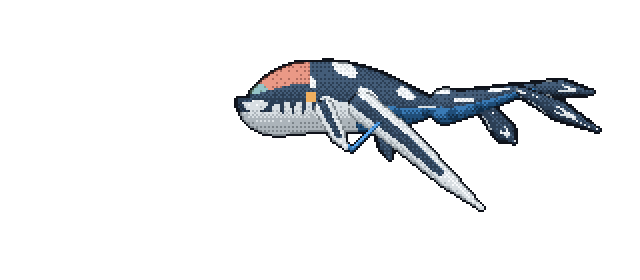
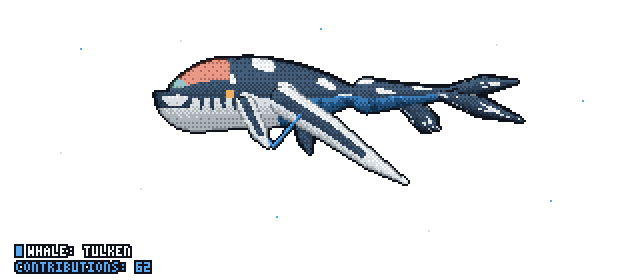
docs: regenerate all stage & view GIFs with deep-ocean glide and TULKEN HUD

Changed region(s): [[0.2188, 0.1714, 0.9375, 0.7714], [0.0, 0.8571, 0.25, 1.0]]

diff --git a/docs/stage4-female/preview.html b/docs/stage4-female/preview.html
@@ -16,7 +16,7 @@
 </style>
 </head>
 <body>
-<header class="dark"><h1>@demo-user — Adult Female (Sloped Sensor Crest) (100 commits)</h1></header>
+<header class="dark"><h1>@demo-user — Adult Female (Sloped Sensor Crest) (102 commits)</h1></header>
 <section class="dark">
 <h2>GitHub Dark Mode</h2>
 <div class="images">

diff --git a/docs/stage2-yearling/preview.html b/docs/stage2-yearling/preview.html
@@ -16,7 +16,7 @@
 </style>
 </head>
 <body>
-<header class="dark"><h1>@demo-user — Yearling Calf (Kuru Active) (25 commits)</h1></header>
+<header class="dark"><h1>@demo-user — Yearling Calf (Kuru Active) (28 commits)</h1></header>
 <section class="dark">
 <h2>GitHub Dark Mode</h2>
 <div class="images">

diff --git a/docs/stage3-adolescent/preview.html b/docs/stage3-adolescent/preview.html
@@ -16,7 +16,7 @@
 </style>
 </head>
 <body>
-<header class="dark"><h1>@demo-user — Adolescent Tulkun (60 commits)</h1></header>
+<header class="dark"><h1>@demo-user — Adolescent Tulkun (62 commits)</h1></header>
 <section class="dark">
 <h2>GitHub Dark Mode</h2>
 <div class="images">

diff --git a/docs/stage1-calf/preview.html b/docs/stage1-calf/preview.html
@@ -16,7 +16,7 @@
 </style>
 </head>
 <body>
-<header class="dark"><h1>@demo-user — Baby Tulkun Calf (6 commits)</h1></header>
+<header class="dark"><h1>@demo-user — Baby Tulkun Calf (4 commits)</h1></header>
 <section class="dark">
 <h2>GitHub Dark Mode</h2>
 <div class="images">

diff --git a/README.md b/README.md
@@ -46,7 +46,7 @@ You can render your Tulkun from **3 different camera angles** using the `view` i
 flowchart LR
     A["GitHub GraphQL API\n(Commits + Repo Languages)"] --> B["TulkunBiology\n(Spine Length, Crest & Fins)"]
     A --> C["TulkunCoat\n(Hex -> 4-Shade Dither Ramps)"]
-    B --> D["45-Frame 15 FPS Raycaster\n(3D Normals + 4x4 Bayer Dither)"]
+    B --> D["75-Frame 15 FPS Raycaster\n(3D Normals + 4x4 Bayer Dither)"]
     C --> D
     D --> E["2x Nearest-Neighbor GIF\n(tulkun/tulkun.gif 640x280)"]
 ```
@@ -65,11 +65,11 @@ flowchart LR
    - Every pixel on the Tulkun's spine and appendages computes a 3D surface normal $\vec{n} = (n_x, n_y, \sqrt{1 - n_x^2 - n_y^2})$ dot-producted against a directional ocean light source `[-0.30, -0.62, 0.72]`.
    - Brightness is quantized across the 4-shade ramp using a `4×4` Bayer ordered dither matrix and wrapped in a crisp `1px` dark outline (`#0f121a`).
 
-3. **15 FPS Cetacean Swimming Physics & Auto-Framing**:
-   - **Traveling S-Wave Spine**: The head bobs gently while a traveling sine wave builds down the torso into a strong vertical stroke at the tail peduncle:
-     $$\Delta y(u, t) = A_{\text{bob}}\sin(\omega t)(1 - u) + A_{\text{tail}}\sin(2.1\pi u - 2\omega t)\,u^{1.15}$$
-   - **Phase-Lagged Fin Sculling**: The 6 pectoral flippers and 4 tail flukes flap with natural phase lag behind the spine wave.
-   - **Bounding-Box Auto-Fit**: Every frame measures the exact bounding box of the spine, crest, wings, and tail flukes so the Tulkun glides across the free space of your `README.md` without ever clipping a single pixel.
+3. **Slow Deep-Ocean Cetacean Swimming Physics & Bottom-Left Metrics HUD**:
+   - **75-Frame Deep-Ocean Glide (5.0s Loop at 15 FPS)**: Massive cetaceans move with slow, weighty grace. A single-harmonic traveling wave glides gently from chest to tail peduncle without erratic vertical bounce:
+     $$\Delta y(u, t) = A_{\text{bob}}\sin(\omega t)(1 - u) + A_{\text{tail}}\sin(1.45\pi u - \omega t)\,u^{1.45}$$
+   - **Rest-Pose Camera Stabilization**: Camera framing is locked to the Tulkun's resting pose (`loop_turn = 0.0`) so flapping flippers never shift the camera center.
+   - **Bottom-Left Pixel-Art Metrics HUD**: Every rendered GIF and PNG displays a crisp `3×5` outlined pixel-art badge in the bottom-left corner showing **`WHALE: TULKEN`** alongside your live **`CONTRIBUTIONS: <count>`**.
 
 ---
 
@@ -98,7 +98,7 @@ jobs:
         uses: actions/checkout@v4
 
       - name: Generate Tulkun GIF & PNG
-        uses: PramudithaN/git-tulkun@v0.1.0
+        uses: PramudithaN/git-tulkun@v0.1.1
         with:
           login: ${{ github.repository_owner }}
           view: side        # Options: side | dive | top
